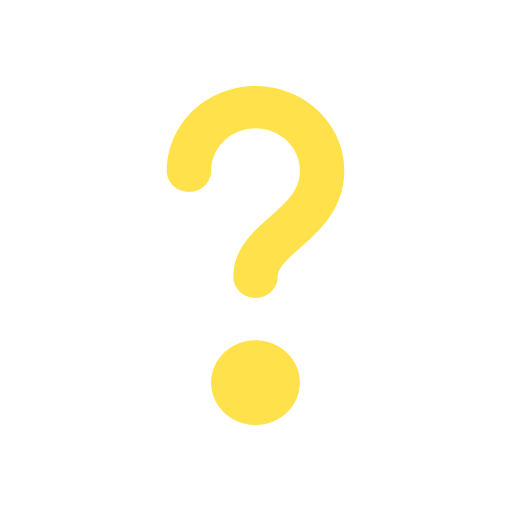
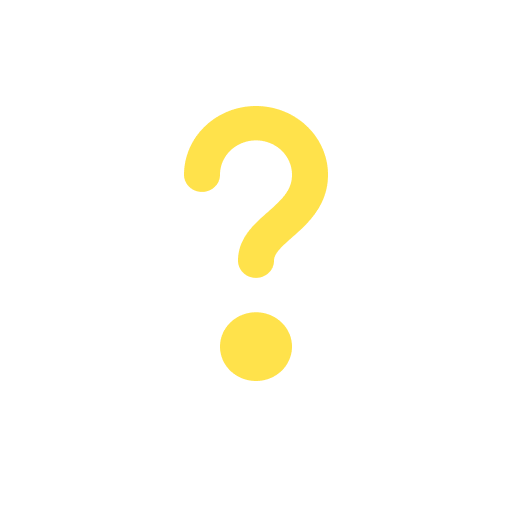
Incorporated star spawner time delay with wrist watch. Tested in headset.

Changed region(s): [[0.3125, 0.1562, 0.6875, 0.8438], [0.5, 0.375, 0.5625, 0.4375], [0.4688, 0.4375, 0.5, 0.5]]

diff --git a/Assets/Starlit_Quest/Scripts/UI/WristWatch.cs b/Assets/Starlit_Quest/Scripts/UI/WristWatch.cs
@@ -15,8 +15,9 @@ public class WristWatch : MonoBehaviour
     [SerializeField] private DotProgressBar dotProgressBar;
 
     private bool isWatchInitialized = false;
-    private int countCollectedStars = 0;
+    private int numCollectedStars = 0;
     private StarSpawner starSpawner;
+    private int currentStarIndex;
 
     private void Start()
     {
@@ -34,22 +35,28 @@ public class WristWatch : MonoBehaviour
     {
         starSpawner = FindFirstObjectByType<StarSpawner>();
         if (starSpawner == null) return;
-        if (starSpawner.CurrentStarIndex < 0) return;
-        UpdateTargetStarDisplay();
+        starSpawner.OnStarSpawned += DisplayNewStar;
         
         if (StarCounter.Instance == null) return;
         dotProgressBar.Initialize(StarCounter.Instance.MaxStars);
-        StarCounter.Instance.OnStarsChanged += UpdateWatchUI;
+        StarCounter.Instance.OnStarsChanged += CelebrateAStarCollected;
         
         isWatchInitialized = true;
     }
-
-    private void UpdateWatchUI(int count)
+    
+    private void CelebrateAStarCollected(int count)
     {
-        countCollectedStars = count;
-        if (countCollectedStars < targetStars.Count)
+        numCollectedStars = count;
+        // play celebration animation
+        return;
+    }
+
+    private void DisplayNewStar(int starIndex)
+    {
+        currentStarIndex = starIndex;
+        if (numCollectedStars < targetStars.Count - 1)
         {
-            StartCoroutine(AsyncUpdateWatchUI());
+            StartCoroutine(AsyncDisplayNewStar());
         }
         else
         {
@@ -57,23 +64,22 @@ public class WristWatch : MonoBehaviour
         }
     }
 
-    private IEnumerator AsyncUpdateWatchUI()
+    private IEnumerator AsyncDisplayNewStar()
     {
         yield return targetStarImage.transform.DOScale(0f, 1f).SetEase(Ease.InOutQuad).WaitForCompletion();
         UpdateTargetStarDisplay();
         yield return targetStarImage.transform.DOScale(1f, 1f).SetEase(Ease.InOutQuad).WaitForCompletion();
         
-        dotProgressBar.UpdateDisplay(countCollectedStars);
+        dotProgressBar.UpdateDisplay(numCollectedStars);
     }
 
     private void UpdateTargetStarDisplay()
     {
         targetStarImage.texture = null;
-        int currentStarIndex = starSpawner.CurrentStarIndex;
         if (currentStarIndex < 0) currentStarIndex = 0;
-        if (currentStarIndex >= targetStars.Count) currentStarIndex = targetStars.Count - 1;
+        if (currentStarIndex >= targetStars.Count - 1) currentStarIndex = targetStars.Count - 2;
         
-        Debug.Log("======= watch UI index: " + currentStarIndex);
+        // Debug.Log("======= watch UI index: " + currentStarIndex);
         targetStarImage.texture = targetStars[currentStarIndex];
     }
 

diff --git a/Assets/Starlit_Quest/Scripts/StarSpawner.cs b/Assets/Starlit_Quest/Scripts/StarSpawner.cs
@@ -1,9 +1,13 @@
-using UnityEngine;
+using System;
+using UnityEngine;
 using System.Collections;
 using System.Collections.Generic;
+using Random = UnityEngine.Random;
 
 public class StarSpawner : MonoBehaviour
-{
+{ 
+    public event Action<int> OnStarSpawned;
+    
     [System.Serializable]
     public class StarConfig
     {
@@ -22,8 +26,6 @@ public class StarSpawner : MonoBehaviour
 
     private List<StarConfig> unusedStarTypes = new List<StarConfig>();
     private int spawnedCount = 0;
-
-    public int CurrentStarIndex { get; private set; } = -1;
 
     private void Start()
     {
@@ -72,7 +74,7 @@ public class StarSpawner : MonoBehaviour
 
         int randomIndex = Random.Range(0, unusedStarTypes.Count);
         StarConfig selected = unusedStarTypes[randomIndex];
-        CurrentStarIndex = starTypes.IndexOf(selected);
+        OnStarSpawned?.Invoke(starTypes.IndexOf(selected));
         unusedStarTypes.RemoveAt(randomIndex);
 
         float angle = Random.Range(selected.minAngle, selected.maxAngle) * Mathf.Deg2Rad;
